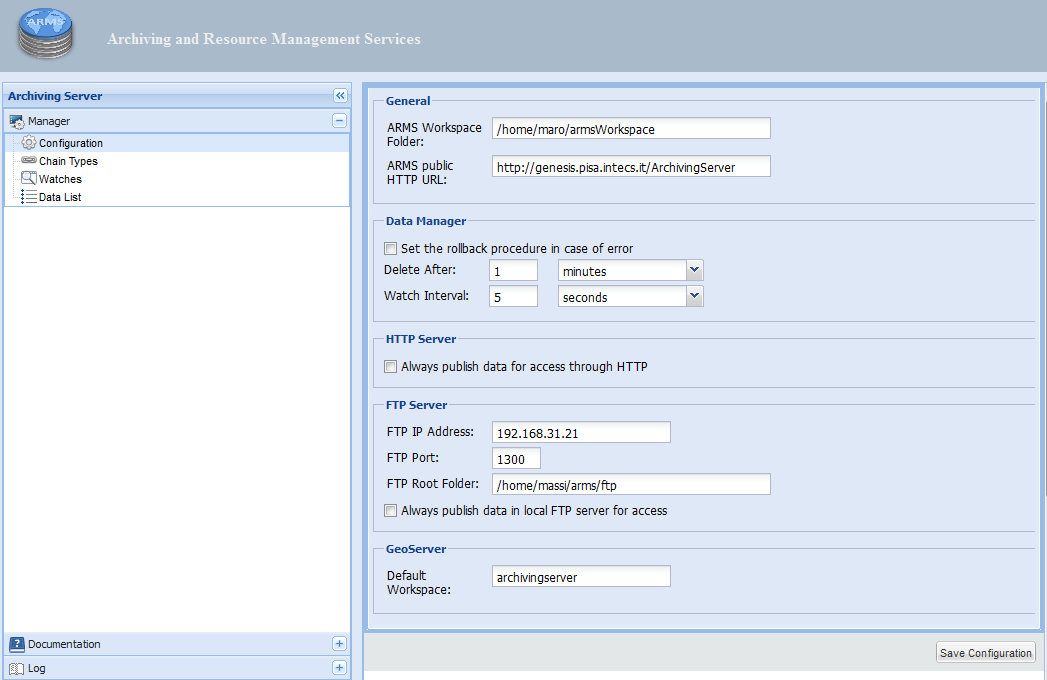
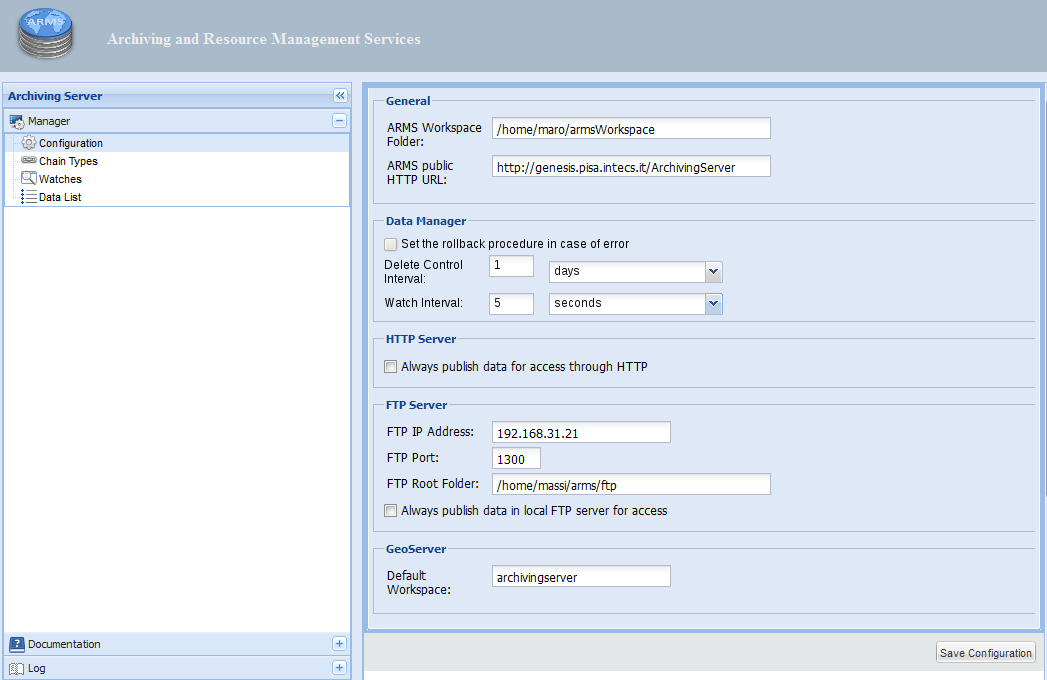
Watch and Configuration documentation updated

Changed region(s): [[0.3668, 0.3397, 0.703, 0.4632]]

diff --git a/9.0/ArchivingServer/web/Documentation/docsExplorer/html/installation/configure.html b/9.0/ArchivingServer/web/Documentation/docsExplorer/html/installation/configure.html
@@ -42,7 +42,7 @@
           <li><strong>Data Manager </strong>            
             <ul>
               <li><em><strong>Set the rollback procedure in case of error</strong></em>: This parameter activates or deactivates the rollback procedure in case of error.</li>
-              <li><span class="Stile1">Delete After</span>: This parameter sets the  time interval after which data shall be automatically deleted. This is typically user to implement a rolling archive. Set this parameter to 0 to disable the automatic deletion feature. </li>
+              <li><span class="Stile1">Delete Control Interval</span>: This parameter provides a time interval between checks a data that should be automatically deleted but, due to of crash, are remained pending.</li>
               <li><em><strong>Watch Interval</strong></em>: This parameter provides a time interval between directory checks. At every check new file is searched in the directory and automatically deployed into the ARMS, if found.</li>
             </ul>
           </li>
@@ -115,6 +115,9 @@
 	          <p>Then proceed with the definition of the steps that the ARMS have to perform when a new data is ingested.</p>
 	          <p>To remove a watch just open the appropriate section and click on the Remove button. </p>
 	          <p>To remove all the Watches click on the &quot;Remove All Watches&quot; button.</p>
+		  <h4>Automatic Deletion</h4>
+	          <p>By checking this check box you will activate the Automatic Deletion functionality. This parameter sets the  time interval after which data shall be automatically deleted. This is typically user to implement a rolling archive.</p>
+	          <p><img src="../images/note.gif"> Note that if the Automatic Deletion Functionality have not been set, the automatic deletion time is set by default to 9999 weeks. </p>
 	          <h4>Internal HTTP Publishing</h4>
 	          <p>By checking this check box you will activate the HTTP publish functionality. The ingested data will be made available via HTTP. The HTTP URL will be put in the metadata and it will be visible in the management interface. </p>
 	          <p><img src="../images/note.gif"> Note that if the generic HTTP publishing parameter have been set the data will be published on HTTP even if this setting is disabled. </p>
